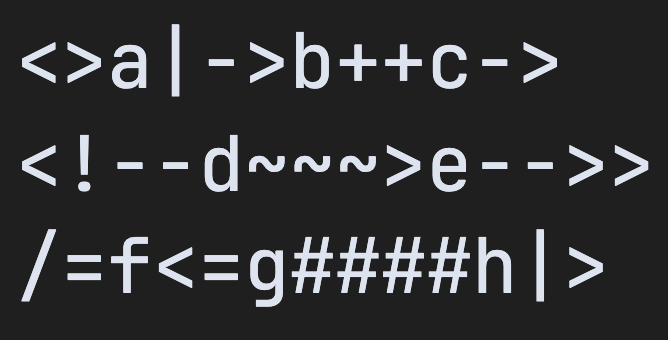
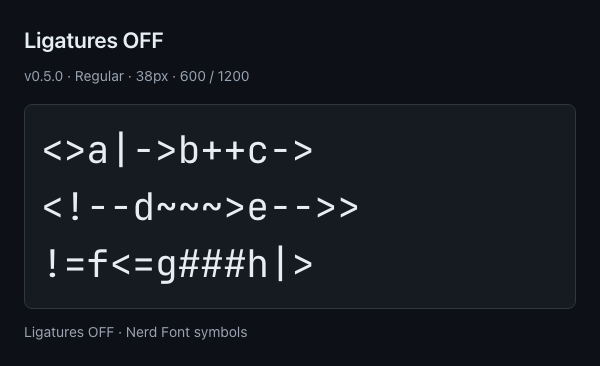
docs: refresh font previews and Homebrew install guide
Show all six v0.5.0 families and ligature on/off samples using freshly
rendered release fonts. Link the six published ZIPs and document the
available Narrow casks, VS Code settings and terminal font selection.

Distinguish brew update from font upgrades and explain that deleting
brew-managed files in Font Book leaves installation records behind.
Document targeted forced reinstalls for missing-font recovery and
mark the completed release-time tap registration in the setup guide.

Validated all eight screenshots for font loading, expected cell widths
and clipping. Checked README JSON/shell syntax, published asset links,
GitHub Markdown rendering at desktop/mobile widths and diff whitespace.

diff --git a/docs/homebrew-tap.md b/docs/homebrew-tap.md
@@ -232,7 +232,7 @@ jobs:
 - [x] 3. 수동 설치 폰트 제거 → `brew install` 테스트 → `brew audit`/`brew style` 통과
 - [x] 4. README에 Homebrew 설치법 추가 (PR, docs 라벨)
 - [x] 5. PAT 발급·시크릿 등록 → `bump-tap.yml` 추가 (PR, build 라벨)
-- [ ] 6. (다음 릴리스 때) 자동 범프 동작 확인
+- [x] 6. v0.5.0 릴리스에서 자동 범프·Narrow 등록 동작 확인
 
 ## v0.5.0: Narrow 캐스크 자동 등록
 
@@ -247,4 +247,7 @@ jobs:
 
 릴리스 게시 후 ZIP을 내려받아 SHA256을 계산하고 기존/새 캐스크를 함께 커밋한다.
 기존 `MABYKO_TAP_GITHUB_TOKEN`을 사용하며, 새 캐스크 등록에도 별도 시크릿은 필요하지 않다.
-v0.5.0 게시 전에는 Narrow 캐스크를 설치할 수 없으므로 로컬 TTF/ZIP을 사용한다.
+v0.5.0 릴리스 게시와 자동 갱신이 완료되어 기본형·Narrow 6종 모두 tap에서 설치할 수 있다.
+실제 캐스크의 버전, ZIP URL·SHA256과 여섯 굵기의 `font` 항목을 확인했다.
+[자동화 실행 기록](https://github.com/mabyko/MabykoMono/actions/runs/37651444614)을 참고한다.
+사용자용 설치·업데이트·강제 재설치 절차는 [README](../README.md#설치)를 따른다.
